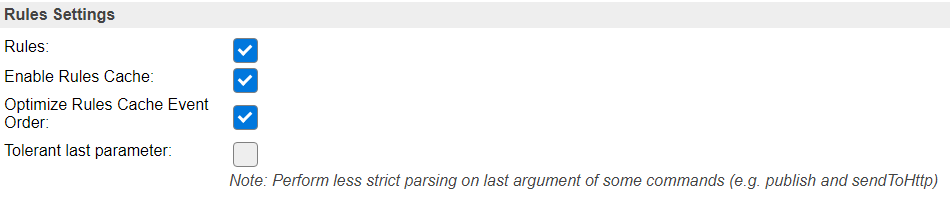
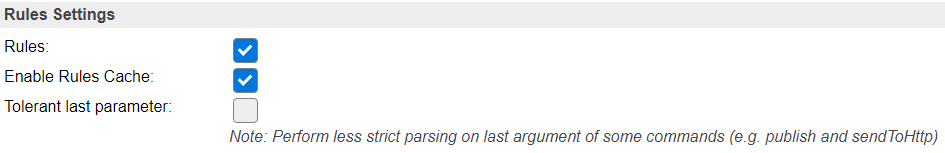
[Docs] Add alternatives for RTC configuration, update Rules options after recent change

diff --git a/docs/source/Rules/Rules.rst b/docs/source/Rules/Rules.rst
@@ -23,7 +23,6 @@ After clicking Submit, you will find the Rules tab added. Here you can start exp
 
 * **Rules**: Enable the use of rules. If disabled, also (most) events will no longer be generated, as they won't be processed, though data will still be sent to Controllers.
 * **Enable Rules Cache**: For faster processing of rules they can be (partially) cached in memory. If memory is really low this option can be disabled.
-* **Optimize Rules Cache Event Order**: During rules processing, some optimization is done to speed up the finding of the rule that is to be executed. This can cause issues if a variable argument is used for matching the event (f.e. use of ``%vN%`` like ``on sensor#value>%v1% do``). If such rules are used, or if rules are not executed as expected, first try to disable this option, to see if that resolves the issue. If needed, ask for support via the Forum.
 * **Tolerant last parameter**: A few commands can use, for backward compatibility, a more tolerant handling of the last parameter, as suggested in the note. This feature should be enabled if it is needed.
 
 .. code:: none

diff --git a/docs/source/Tools/Tools.rst b/docs/source/Tools/Tools.rst
@@ -264,6 +264,11 @@ Procedure to configure a real time clock (RTC) chip:
 * Check on the Main tab if the time is displayed correctly.
 * On the Tools/Advanced page, the NTP setting can now be disabled, if so desired, as it won't be used anymore (unless the External Time Source is set to None).
 
+Besides using NTP to set the date/time to the RTC chip, other supported options are:
+
+* Using the ``DateTime`` command to set the date and time.
+* Having a GPS receiver connected, using the GPS plugin (:ref:`P082_page`), the ESPEasy date/time will be set when GPS date/time is valid, as that is more accurate than the RTC date/time. The RTC date/time will be used from boot, and be updated once the GPS has a fix, which may take some time, depending on conditions.
+
 
 DST Settings
 ------------
